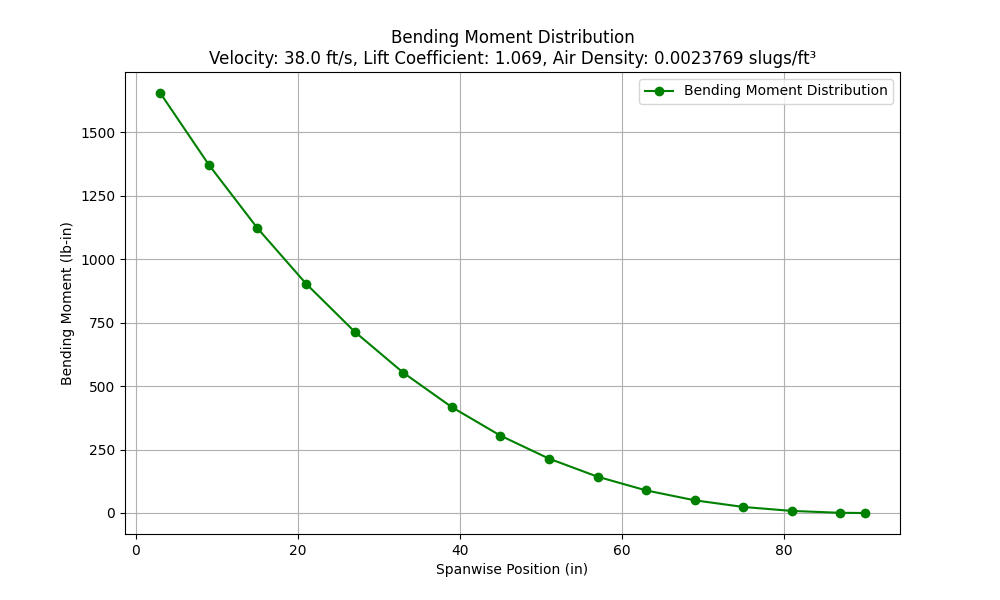
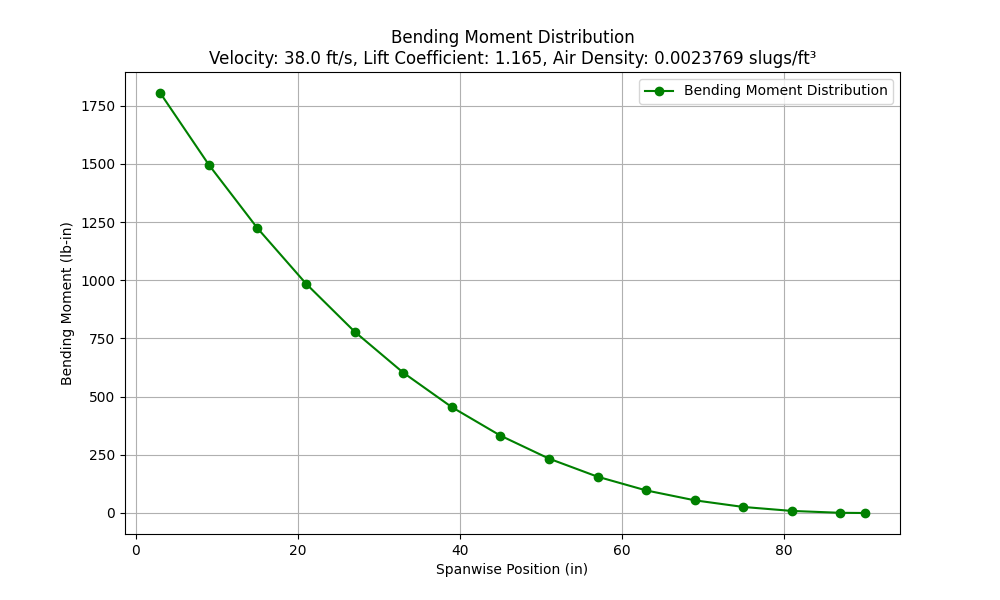
update 10

diff --git a/Prandtl_Elliptical_Lift_Distribution.py b/Prandtl_Elliptical_Lift_Distribution.py
@@ -4,7 +4,7 @@ import matplotlib.pyplot as plt
 import logging
 
 class EllipticalLiftDistribution:
-    def __init__(self, span, lift_coefficient, rho, velocity, root_chord, tip_chord, output_folder='Wing_Loading',safety_factor=3.5):
+    def __init__(self, span, lift_coefficient, rho, velocity, root_chord, tip_chord, output_folder='Wing_Loading',safety_factor=3.3):
         self.span = span
         self.lift_coefficient = lift_coefficient
         self.rho = rho
@@ -97,7 +97,7 @@ class EllipticalLiftDistribution:
 
         # Initial guess for height and width
         h = 2.5  # Initial guess for height in inches
-        b = 1.0  # Initial guess for width in inches
+        b = .5  # Initial guess for width in inches
 
         # Calculate the section modulus for a hollow rectangular cross-section
         def section_modulus(h, b, top_bottom_thickness, side_thickness):
@@ -134,7 +134,7 @@ if __name__ == "__main__":
 
     # Define parameters in imperial units (inches)
     span = 15 * 12  # Total wingspan in inches
-    lift_coefficient = 1.069  # Lift coefficient (CL)
+    lift_coefficient = 1.165  # Lift coefficient (CL)
     rho = 0.0023769  # Air density in slugs/ft³
     velocity = 38.0  # Flight velocity in feet per second
     root_chord = 3 * 12  # Root chord length in inches
